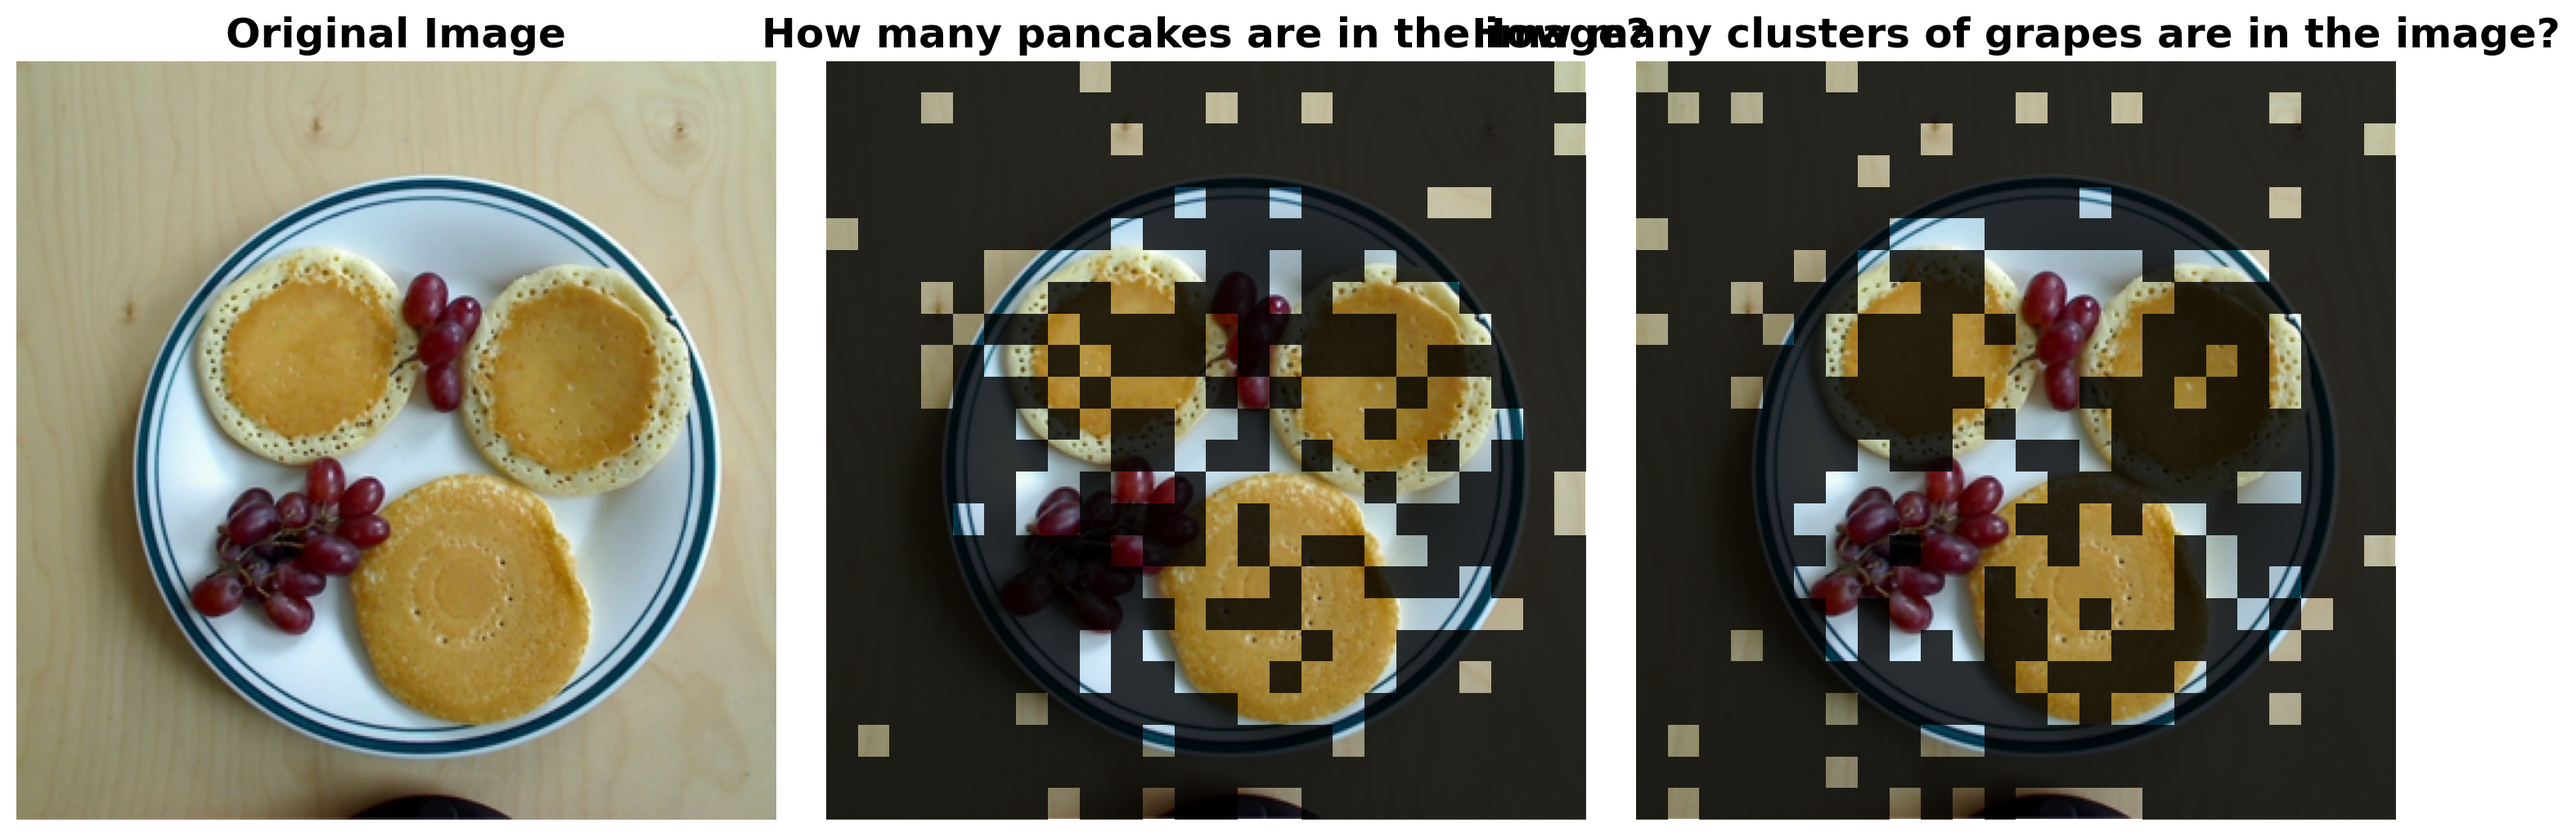
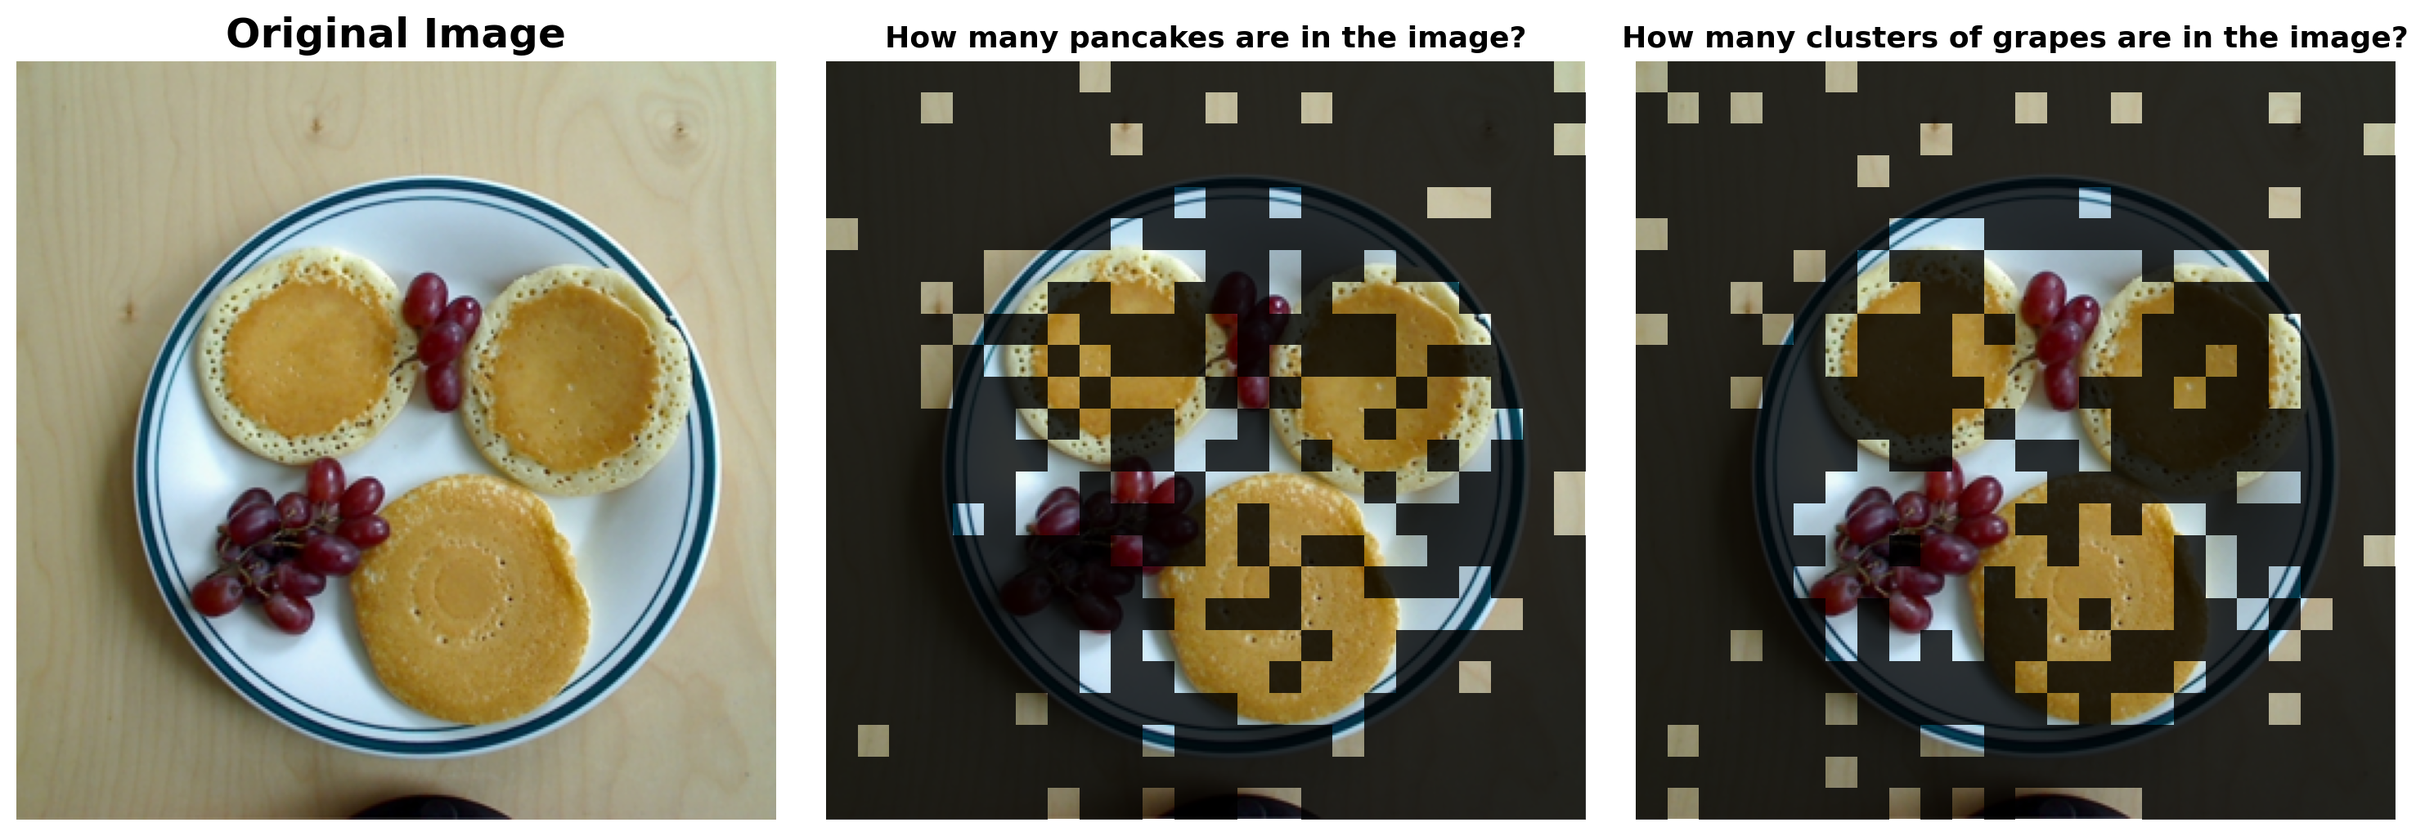
updated title for CDPruner's pancake example

diff --git a/src/visualize_cdpruner.py b/src/visualize_cdpruner.py
@@ -130,7 +130,7 @@ def visualize_masks(display_image, masks, prompts, output_dir):
         overlay[..., :3] = 0.0
         overlay[..., 3] = (~mask).astype(np.float32) * 0.80
         ax.imshow(overlay, interpolation="nearest", extent=(0, image_w, image_h, 0))
-        ax.set_title(f"{prompt}", fontsize=18, fontweight="bold")
+        ax.set_title(f"{prompt}", fontsize=13, fontweight="bold")
 
         ax.axis("off")
 
